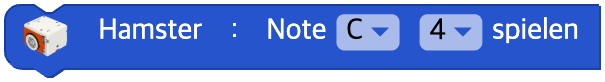
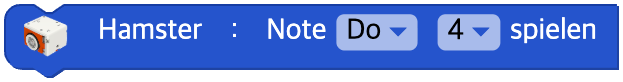
로봇 블록 음 이름(_labels.note) 계이름(Do Re Mi) 으로 표기 통일

diff --git a/docs/pages/zh-hans/roboids/Beagle.md b/docs/pages/zh-hans/roboids/Beagle.md
@@ -200,7 +200,7 @@ Beagle 播放指定的音符。
 
 | 名称 | 类别 | 说明 | 范围 / 种类 | 默认值 |
 | --- | --- | --- | --- | --- |
-| note | 下拉选项 | 音符 | 哆(C), 哆#(C#), 来(D), 来#(D#), 咪(E), 发(F), 发#(F#), 索(G), 索#(G#), 拉(A), 拉#(A#), 西(B) | - |
+| note | 下拉选项 | 音符 | Do(C), Do#(C#), Re(D), Re#(D#), Mi(E), Fa(F), Fa#(F#), Sol(G), Sol#(G#), La(A), La#(A#), Si(B) | - |
 | octave | 下拉选项 | 八度 | 1, 2, 3, 4, 5, 6, 7 | 4 |
 
 ### Python

diff --git a/docs/pages/sv/roboids/CheeseStick.md b/docs/pages/sv/roboids/CheeseStick.md
@@ -243,7 +243,7 @@ Cheese Stick spelar den angivna tonen.
 
 | Namn | Sort | Beskrivning | Intervall / Typ | Standard |
 | --- | --- | --- | --- | --- |
-| note | Rullgardinsalternativ | Ton | C, C#, D, D#, E, F, F#, G, G#, A, A#, B | - |
+| note | Rullgardinsalternativ | Ton | Do(C), Do#(C#), Re(D), Re#(D#), Mi(E), Fa(F), Fa#(F#), Sol(G), Sol#(G#), La(A), La#(A#), Si(B) | - |
 | octave | Rullgardinsalternativ | Oktav | 1, 2, 3, 4, 5, 6, 7 | 4 |
 
 ### Python

diff --git a/docs/pages/sv/roboids/Beagle.md b/docs/pages/sv/roboids/Beagle.md
@@ -200,7 +200,7 @@ Beagle spelar den angivna tonen.
 
 | Namn | Sort | Beskrivning | Intervall / Typ | Standard |
 | --- | --- | --- | --- | --- |
-| note | Rullgardinsalternativ | Ton | C, C#, D, D#, E, F, F#, G, G#, A, A#, B | - |
+| note | Rullgardinsalternativ | Ton | Do(C), Do#(C#), Re(D), Re#(D#), Mi(E), Fa(F), Fa#(F#), Sol(G), Sol#(G#), La(A), La#(A#), Si(B) | - |
 | octave | Rullgardinsalternativ | Oktav | 1, 2, 3, 4, 5, 6, 7 | 4 |
 
 ### Python

diff --git a/docs/pages/de/roboids/Hamster.md b/docs/pages/de/roboids/Hamster.md
@@ -290,7 +290,7 @@ Hamster spielt die angegebene Note.
 
 | Name | Art | Beschreibung | Bereich / Typ | Standardwert |
 | --- | --- | --- | --- | --- |
-| note | Dropdown-Option | Note | C, C#, D, D#, E, F, F#, G, G#, A, A#, B | - |
+| note | Dropdown-Option | Note | Do(C), Do#(C#), Re(D), Re#(D#), Mi(E), Fa(F), Fa#(F#), Sol(G), Sol#(G#), La(A), La#(A#), Si(B) | - |
 | octave | Dropdown-Option | Oktave | 1, 2, 3, 4, 5, 6, 7 | 4 |
 
 ### Python

diff --git a/docs/pages/de/roboids/Beagle.md b/docs/pages/de/roboids/Beagle.md
@@ -199,7 +199,7 @@ Beagle spielt die angegebene Note.
 
 | Name | Art | Beschreibung | Bereich / Typ | Standardwert |
 | --- | --- | --- | --- | --- |
-| note | Dropdown-Option | Note | C, C#, D, D#, E, F, F#, G, G#, A, A#, B | - |
+| note | Dropdown-Option | Note | Do(C), Do#(C#), Re(D), Re#(D#), Mi(E), Fa(F), Fa#(F#), Sol(G), Sol#(G#), La(A), La#(A#), Si(B) | - |
 | octave | Dropdown-Option | Oktave | 1, 2, 3, 4, 5, 6, 7 | 4 |
 
 ### Python

diff --git a/docs/pages/de/roboids/Turtle.md b/docs/pages/de/roboids/Turtle.md
@@ -436,7 +436,7 @@ Turtle spielt die angegebene Note.
 
 | Name | Art | Beschreibung | Bereich / Typ | Standardwert |
 | --- | --- | --- | --- | --- |
-| note | Dropdown-Option | Note | C, C#, D, D#, E, F, F#, G, G#, A, A#, B | - |
+| note | Dropdown-Option | Note | Do(C), Do#(C#), Re(D), Re#(D#), Mi(E), Fa(F), Fa#(F#), Sol(G), Sol#(G#), La(A), La#(A#), Si(B) | - |
 | octave | Dropdown-Option | Oktave | 1, 2, 3, 4, 5, 6, 7 | 4 |
 
 ### Python

diff --git a/docs/pages/de/roboids/HamsterS.md b/docs/pages/de/roboids/HamsterS.md
@@ -461,7 +461,7 @@ HamsterS spielt die angegebene Note.
 
 | Name | Art | Beschreibung | Bereich / Typ | Standardwert |
 | --- | --- | --- | --- | --- |
-| note | Dropdown-Option | Note | C, C#, D, D#, E, F, F#, G, G#, A, A#, B | - |
+| note | Dropdown-Option | Note | Do(C), Do#(C#), Re(D), Re#(D#), Mi(E), Fa(F), Fa#(F#), Sol(G), Sol#(G#), La(A), La#(A#), Si(B) | - |
 | octave | Dropdown-Option | Oktave | 3, 4, 5, 6, 7 | 4 |
 
 ### Python
